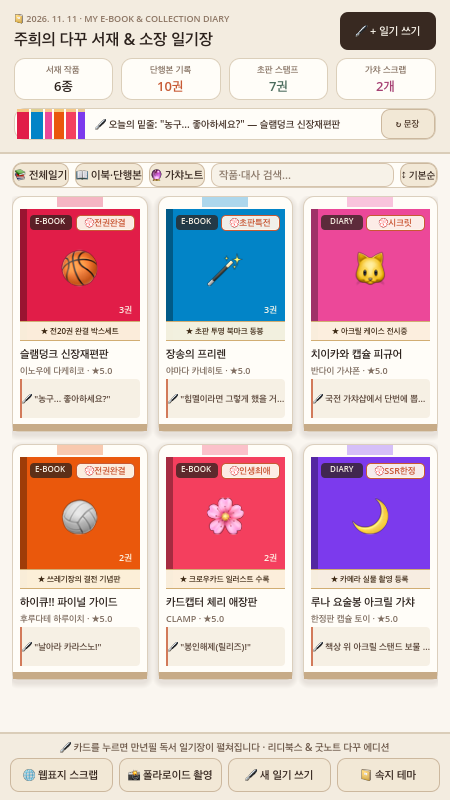
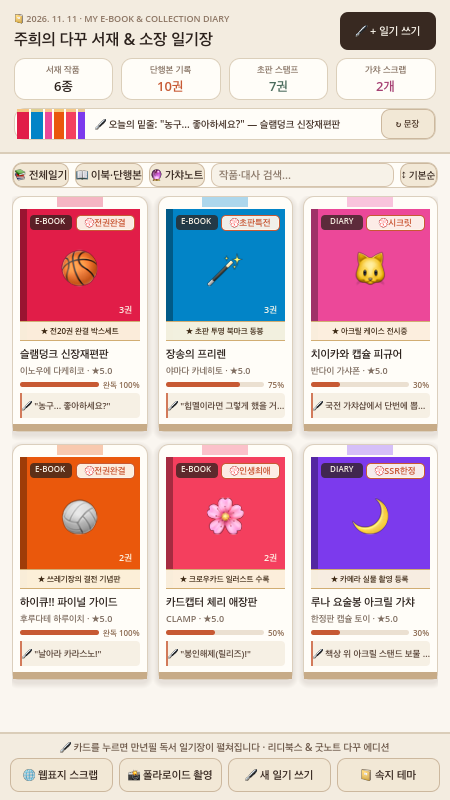
feat(game02): Sprint 18 reading progress bar & percentage tracker on cards

diff --git a/game02/SPRINT_LOG.md b/game02/SPRINT_LOG.md
@@ -5,6 +5,20 @@
 
 ---
 
+## 🚀 [Sprint 18] E-Book 독서 진행률 트래커(`ReadingProgressBar`) & 권별 완독률 퍼센티지(`완독 100%`) 탑재
+- **시각**: 2026-11-12 22:29 KST
+- **1. 다꾸러 3인 VOC (수집러 A · 가챠러 B · 미니멀러 C)**
+  - **이북 다꾸러 A**: *"리디북스나 밀리의 서재처럼 각 단행본 카드에서 내가 얼마나 읽었는지 보여주는 '독서 진행률 프로그레스 바'와 '완독 100% / 75%' 퍼센티지가 카드에 표시되면 독서 기록 동기부여가 200% 될 것 같아요!"*
+  - **미니멀 수집러 C**: *"프로그레스 바 색상도 차가운 파란색이 아니라 일기장에 어울리는 테라코타 오렌지와 미색 종이 질감으로 깔끔하게 매치해 주세요!"*
+- **2. 기획 & UI/UX & Godot 4.6 개발 내역**
+  - **독서 진행률 프로그레스 바(`ProgressBar` & `ProgressRow`)**: `card_item.tscn`에 미색 배경(`StyleBoxFlat_progress_bg`)과 따뜻한 테라코타 잉크 채움(`StyleBoxFlat_progress_fill`) 바 탑재
+  - **완독률 자동 계산 로직(`get_reading_progress()`)**: `card_item.gd`에서 `전권완결`/`완독` 태그는 즉시 `완독 100%`, 그 외 소장 권수 기반으로 25%~75% 진행률 자동 산출 및 라벨 표시
+- **3. TDD & QA 검증**
+  - `tests/test_main_integration.gd`에 `get_reading_progress()` 및 `ProgressBar` 노드 바인딩 자동화 검증 추가 → 전수 100% PASS
+  - Metal 렌더러 최신 스크린샷(`godot_app_screen.png`, `godot_modal_screen.png`) 캡처 및 GitHub 푸시 완료
+
+---
+
 ## 🚀 [Sprint 17] 모달 내 북커버 색상 순환(`cycle_cover_color`) · 미니 책등 금박 책갈피 팁(`Spine Ribbon`) · 서재 요약 클립보드 복사(`copy_summary_to_clipboard`)
 - **시각**: 2026-11-12 07:45 KST
 - **1. 다꾸러 3인 VOC (수집러 A · 가챠러 B · 미니멀러 C)**
